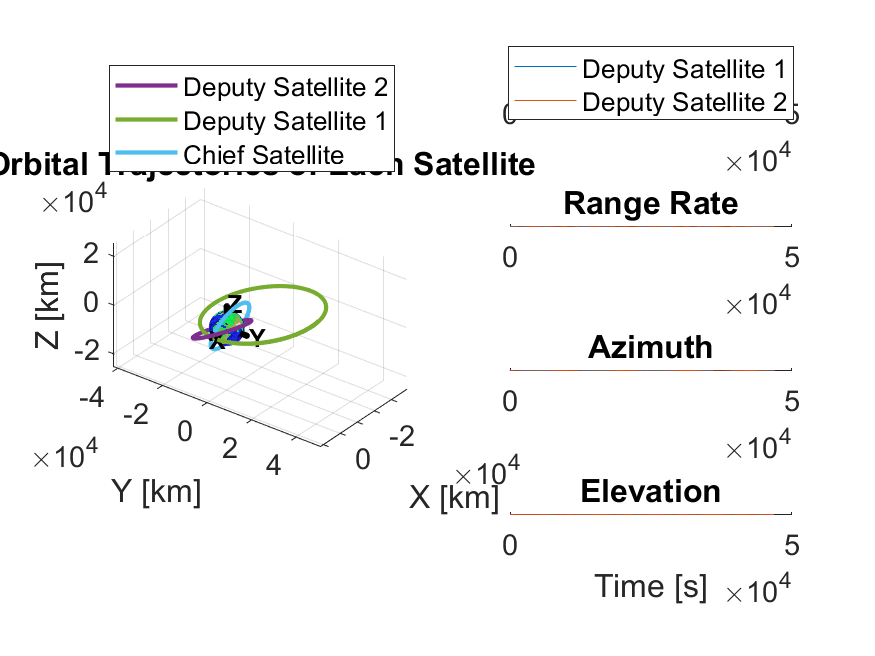
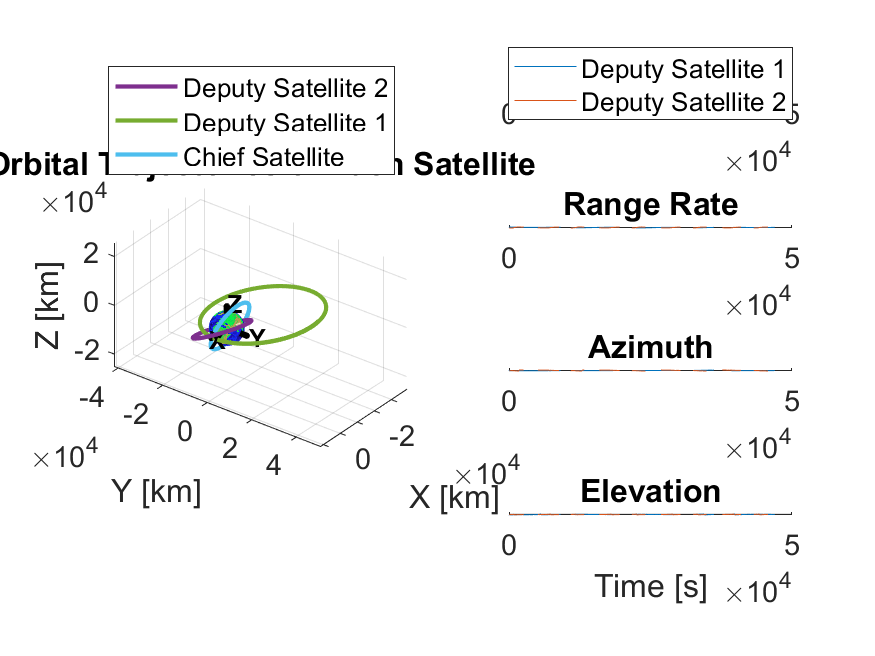
LOS multi-sat

diff --git a/TruthModelSim.m b/TruthModelSim.m
@@ -59,34 +59,43 @@ Y(:,:,2) = measurementfcn(X_eputy, X_chief, NOISE.R);
 
 % Determine if the Line of Sight is obstructed
 X1 = [X_chief(1, :); X_chief(3, :); X_chief(5, :)]; % [km] Position vector of the chief satellite
-X2 = [X_deputy(1, :); X_deputy(3, :); X_deputy(5, :)]; % [km] Position vector of the deputy satellite
-pt = [0; 0; 0]; % Point to find the distance to
-LOS = X2 - X1; % Line of sight vector
 
-V_pt_LOS = cross(cross(pt - X1, LOS), LOS); % Vector w/ minimum distance from pt to LOS
-% Normalize each vector if the magnitude of V_pt_LOS is non-zero
-V_pt_LOS(:, vecnorm(V_pt_LOS) ~= 0) = V_pt_LOS(:, vecnorm(V_pt_LOS) ~= 0)./vecnorm(V_pt_LOS(:, vecnorm(V_pt_LOS) ~= 0)); % Unit LOS vector
+for i = 1:2
+    
+    if i == 1
+        X2 = [X_deputy(1, :); X_deputy(3, :); X_deputy(5, :)]; % [km] Position vector of the deputy satellite
+    else
+        X2 = [X_eputy(1, :); X_eputy(3, :); X_eputy(5, :)]; % [km] Position vector of the deputy satellite
+    end
+    
+    pt = [0; 0; 0]; % Point to find the distance to
+    LOS = X2 - X1; % Line of sight vector
 
-% Calculate the distance between pt and LOS if the magnitude of V_pt_LOS is
-% non-zero
-d_pt_LOS = vecnorm(cross(X1, LOS))./vecnorm(LOS); % [km] Distance from pt to LOS
+    V_pt_LOS = cross(cross(pt - X1, LOS), LOS); % Vector w/ minimum distance from pt to LOS
+    % Normalize each vector if the magnitude of V_pt_LOS is non-zero
+    V_pt_LOS(:, vecnorm(V_pt_LOS) ~= 0) = V_pt_LOS(:, vecnorm(V_pt_LOS) ~= 0)./vecnorm(V_pt_LOS(:, vecnorm(V_pt_LOS) ~= 0)); % Unit LOS vector
 
-pt_LOS = d_pt_LOS.*V_pt_LOS; % [km] Point in 3D space on LOS closest to pt
+    % Calculate the distance between pt and LOS if the magnitude of V_pt_LOS is
+    % non-zero
+    d_pt_LOS = vecnorm(cross(X1, LOS))./vecnorm(LOS); % [km] Distance from pt to LOS
 
-% Calculate the value of t in the equation:
-%   pt_LOS = X1 + t * LOS
-% to determine whether the shortest distance occurs between the satellites
-% (Corresponds to t = [0, 1]
-t = (pt_LOS - X1)./LOS;
+    pt_LOS = d_pt_LOS.*V_pt_LOS; % [km] Point in 3D space on LOS closest to pt
 
-bool_valid_rng_prm = zeros(1, size(Y, 2));
-% bool_valid_rng_prm(1, :) = abs(t(1, :) - t(2, :)) < 1e-12;
-% bool_valid_rng_prm(2, :) = abs(t(1, :) - t(3, :)) < 1e-12;
-bool_valid_rng_prm = d_pt_LOS > CONST.R_E | t(1, :) < 0 | t(1, :) > 1;
+    % Calculate the value of t in the equation:
+    %   pt_LOS = X1 + t * LOS
+    % to determine whether the shortest distance occurs between the satellites
+    % (Corresponds to t = [0, 1]
+    t = (pt_LOS - X1)./LOS;
 
-valid_rng_prm = double(bool_valid_rng_prm);
+    bool_valid_rng_prm = zeros(1, size(Y, 2));
+    % bool_valid_rng_prm(1, :) = abs(t(1, :) - t(2, :)) < 1e-12;
+    % bool_valid_rng_prm(2, :) = abs(t(1, :) - t(3, :)) < 1e-12;
+    bool_valid_rng_prm = d_pt_LOS > CONST.R_E | t(1, :) < 0 | t(1, :) > 1;
 
-valid_rng_prm(valid_rng_prm == 0) = NaN;
-Y(:,:,1) = Y(:,:,1).*valid_rng_prm;
+    valid_rng_prm = double(bool_valid_rng_prm);
+
+    valid_rng_prm(valid_rng_prm == 0) = NaN;
+    Y(:,:,i) = Y(:,:,i).*valid_rng_prm;
+end
 end
 
